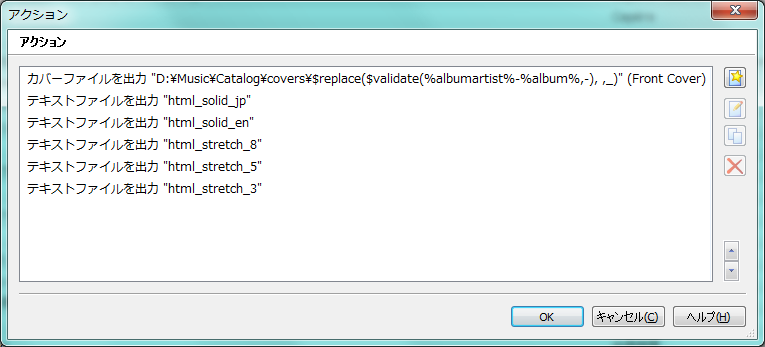
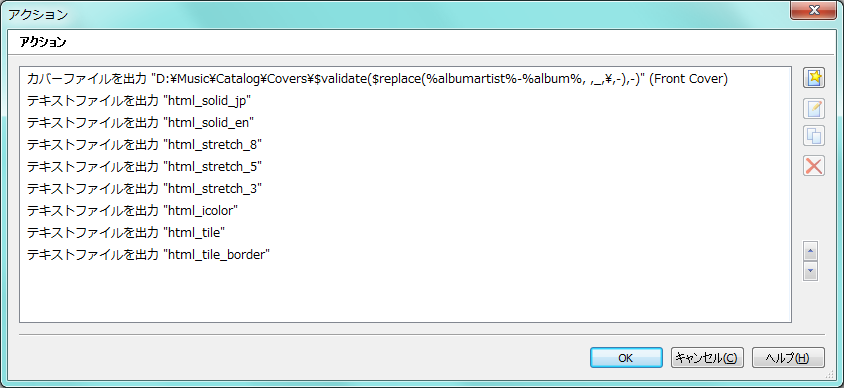
セットアップの手順を更新

Changed region(s): [[0.0, 0.0, 1.0, 1.0]]

diff --git a/README.md b/README.md
@@ -49,7 +49,7 @@
 ### アルバムアートの書き出し
 
 アルバムアートを使うテンプレートのために「カバーファイルを出力」のアクションを設定します。
-ファイル名規則は `{テキストファイルを出力したフォルダ}\covers\$replace($validate(%albumartist%-%album%,-), ,_)` とします。
+ファイル名規則は `{テキストファイルを出力したフォルダ}\covers\$validate($replace(%albumartist%-%album%, ,_,\,-),-)` とします。
 出力フォルダが同じならば、HTML を複数出力する場合でもこのアクションは１回の実行で十分です。
 
 ![カバーファイルを出力](img/cover.png)
